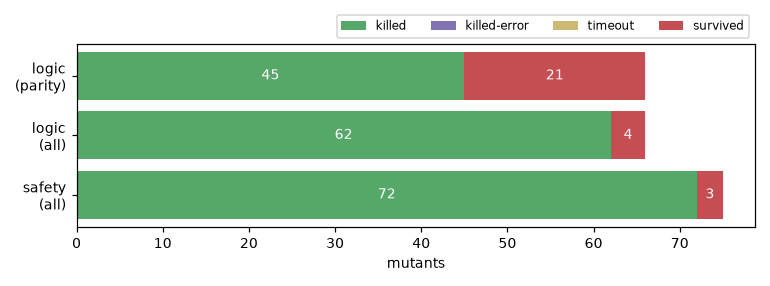
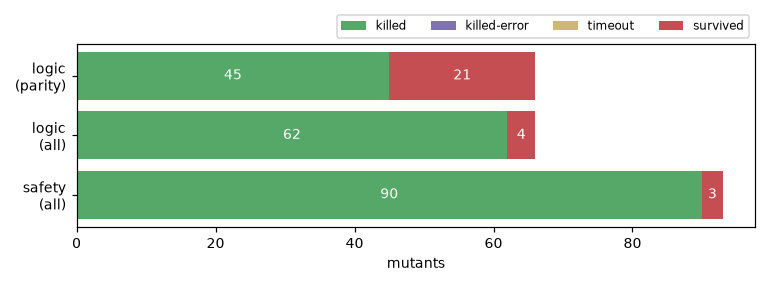
Mutation sweep: refusal, hold, fault and LAND cases
18 new safety mutants (step limit bypassed after a refusal, displacement
skipped after a refusal or during the entry, hold re-captured every tick or
kept across phases, hold from an implausible or untracked pose, LAND
interrupted by a fault, new LAND while refused, escalation timing, status
and counters) and the existing ones updated for the reworked gate. Safety:
90 of 93 killed (3 argued equivalent); logic unchanged at 62 of 66.

diff --git a/tools/mutation_sweep.py b/tools/mutation_sweep.py
@@ -192,8 +192,8 @@ SAFETY = [
      "triggers = [arb[0], op[1], op[2], op[3]]"),
     ("og-issue", SAFE, "joystick issue from operator", "triggers = [op[0], op[1], op[2], op[3]]",
      "triggers = [op[0], op[1], op[2], arb[3]]"),
-    ("og-mode", SAFE, "LAND only in AUTOLAND", "if self.mode is Mode.AUTOLAND and self.status is not GateStatus.CENTRING_FAULT:",
-     "if self.status is not GateStatus.CENTRING_FAULT:"),
+    ("og-mode", SAFE, "LAND only in AUTOLAND", "if self.mode is Mode.AUTOLAND and (self.land_active or self.status is GateStatus.OK):",
+     "if self.land_active or self.status is GateStatus.OK:"),
     ("og-autoland-arm", SAFE, "LAND only while armed", "if arb[1] == 0.0 and op[1] == 1.0 and op[0] == 1.0:",
      "if arb[1] == 0.0 and op[1] == 1.0:"),
     ("og-dryrun", SAFE, "dry-run sends nothing", "return GateDecision(None if self.mode is Mode.DRY_RUN else packet,",
@@ -262,31 +262,77 @@ SAFETY = [
     ("rv-og-arbiter-fault-off", SAFE, "arbiter tampering flagged",
      "if (arb[0], arb[2], arb[3]) != (op[0], op[2], op[3]):", "if False:"),
     # Added with the review fixes
-    ("og-entry-jump", SAFE, "jump on centring entry / re-anchor refused",
+    ("og-entry-jump", SAFE, "jump on centring entry refused",
      "            if ref is not None and math.hypot(x - ref[0], y - ref[1]) > self.max_disp + e:", "            if False:"),
     ("og-origin-refused", SAFE, "refused entry pose is not the origin", "        if accepted:\n", "        if True:\n"),
     ("og-late-origin", SAFE, "first accepted centring pose becomes the origin",
      "        elif self.center_origin is None and reason is None:", "        elif False:"),
-    # Centring entry anchored on the measured pose, re-anchoring, escalation
+    # Centring entry anchor, refusal hold, escalation, autonomous LAND
     ("og-anchor-sent", SAFE, "centring entry anchored on the measured pose, not the last sent one",
      "            ref = self._vehicle_xy(out)\n",
      "            ref = self.last_desired[:2] if self.last_desired is not None else None\n"),
     ("og-anchor-untracked", SAFE, "measured pose used only while tracking",
-     "        if out.is_tracking > 0.5 and len(m) == 2 and _finite(m):", "        if len(m) == 2 and _finite(m):"),
-    ("og-no-reanchor", SAFE, "re-anchor on the measured pose after a refusal",
-     "if not self.prev_centering or self.prev_refused:", "if not self.prev_centering:"),
+     "        if not (out.is_tracking > 0.5 and len(m) == 2 and _finite(m)):", "        if not (len(m) == 2 and _finite(m)):"),
+    ("og-step-reanchor", SAFE, "step limit not bypassed by re-anchoring after a refusal",
+     "        if self.centring_last is None:\n", "        if self.centring_last is None or self.refusal_ticks > 0:\n"),
     ("og-no-escalation", SAFE, "persistent centring refusals escalate",
      "if self.refusal_ticks >= self.escalate_ticks and self.status is not GateStatus.CENTRING_FAULT:", "if False:"),
     ("og-escalation-reset", SAFE, "accepted pose resets the refusal timer",
-     "                self.prev_refused = False\n                self.refusal_ticks = 0\n",
-     "                self.prev_refused = False\n"),
+     "                self.refusal_ticks = 0\n                self.status = GateStatus.OK\n",
+     "                self.status = GateStatus.OK\n"),
+    ("og-escalate-10x", SAFE, "escalation after 2 s", "s.centring_refusal_escalate_s / m.step_size",
+     "10 * s.centring_refusal_escalate_s / m.step_size"),
     ("og-fault-latch", SAFE, "centring fault latched until centring ends",
      '            reason = reason or "centring-fault-hold"', "            pass"),
-    ("og-fault-no-land", SAFE, "no autonomous LAND after a centring fault",
-     "if self.mode is Mode.AUTOLAND and self.status is not GateStatus.CENTRING_FAULT:",
-     "if self.mode is Mode.AUTOLAND:"),
-    ("og-hold-stale", SAFE, "refusal holds where the vehicle is", "                    desired = self.refusal_hold\n",
-     "                    pass\n"),
+    ("og-fault-never-clears", SAFE, "centring fault cleared when centring ends",
+     "            self.refusal_ticks = 0\n            self.status = GateStatus.OK\n", "            self.refusal_ticks = 0\n"),
+    ("og-refused-status-not-reset", SAFE, "accepted pose returns the status to ok",
+     "                self.refusal_ticks = 0\n                self.status = GateStatus.OK\n",
+     "                self.refusal_ticks = 0\n"),
+    ("og-refusal-count", SAFE, "refused centring ticks counted", "                self.centring_refusals += 1\n", ""),
+    ("og-land-interrupted", SAFE, "a LAND already applied is never interrupted (trigger 2 stays lowered)",
+     "(self.land_active or self.status is GateStatus.OK)", "(self.status is not GateStatus.CENTRING_FAULT)"),
+    ("og-new-land-while-refused", SAFE, "no new autonomous LAND unless the gate status is ok",
+     "(self.land_active or self.status is GateStatus.OK)",
+     "(self.land_active or self.status is not GateStatus.CENTRING_FAULT)"),
+    ("og-land-active-latch", SAFE, "LAND state follows the arbiter", "        self.land_active = autoland\n",
+     "        self.land_active = self.land_active or autoland\n"),
+    ("og-hold-stale", SAFE, "refusal holds the validated hold, not the last accepted pose",
+     "                if hold is not None:\n                    desired = hold\n", "                pass\n"),
+    ("og-hold-recapture", SAFE, "entry hold captured once",
+     "        if self.refusal_hold is None:\n            xy = self._measured_xy(out)",
+     "        if True:\n            xy = self._measured_xy(out)"),
+    ("og-hold-kept-across-phases", SAFE, "entry hold cleared when centring ends",
+     "            self.refusal_hold = None\n            self.refusal_ticks = 0\n", "            self.refusal_ticks = 0\n"),
+    ("og-hold-z-measured", SAFE, "hold keeps the last accepted height",
+     "            if self.last_desired is not None:\n                z, yaw = self.last_desired[2], self.last_desired[3]",
+     "            if self.last_desired is not None:\n                z, yaw = float(out.measured_pose[2]), self.last_desired[3]"),
+    ("og-hold-teleport", SAFE, "measured xy further than 0.1 m from the previous sample is not trusted",
+     "                x - self.last_measured[0], y - self.last_measured[1]) > self.measured_jump + e:",
+     "                x - self.last_measured[0], y - self.last_measured[1]) > 100 * self.measured_jump + e:"),
+    ("og-hold-outside-area", SAFE, "measured xy outside the flight area is not trusted",
+     "        if not (self.fx_lo - e <= x <= self.fx_hi + e and self.fy_lo - e <= y <= self.fy_hi + e):",
+     "        if False:"),
+    ("og-vehicle-no-fallback", SAFE, "vehicle position falls back to the last accepted pose",
+     "        if self.last_desired is not None:\n            return self.last_desired[0], self.last_desired[1]\n        return None",
+     "        return None"),
+    ("og-entry-tol-4x", SAFE, "entry jump limit 0.5 m",
+     "            if ref is not None and math.hypot(x - ref[0], y - ref[1]) > self.max_disp + e:",
+     "            if ref is not None and math.hypot(x - ref[0], y - ref[1]) > 4 * self.max_disp + e:"),
+    ("og-origin-untracked", SAFE, "centring origin never from an untracked pose",
+     "        return self._vehicle_xy(out)\n\n    def _hold_pose",
+     "        m = out.measured_pose\n        return (float(m[0]), float(m[1])) if all(v == v for v in m[:2]) "
+     "else self._vehicle_xy(out)\n\n    def _hold_pose"),
+    ("og-disp-after-refusal", SAFE, "displacement limit also on the tick after a refusal",
+     '        if self.center_origin is not None and math.hypot(\n                x - self.center_origin[0], y - self.center_origin[1]) > self.max_disp + e:\n            return "centering-displacement',
+     '        if self.refusal_ticks == 0 and self.center_origin is not None and math.hypot(\n                x - self.center_origin[0], y - self.center_origin[1]) > self.max_disp + e:\n            return "centering-displacement'),
+    ("og-disp-during-entry", SAFE, "displacement limit also while the entry is refused",
+     '        if self.center_origin is not None and math.hypot(\n                x - self.center_origin[0], y - self.center_origin[1]) > self.max_disp + e:\n            return "centering-displacement',
+     '        if self.centring_last is not None and self.center_origin is not None and math.hypot(\n                x - self.center_origin[0], y - self.center_origin[1]) > self.max_disp + e:\n            return "centering-displacement'),
+    ("og-disp-off", SAFE, "displacement limit", '        if self.center_origin is not None and math.hypot(\n                x - self.center_origin[0], y - self.center_origin[1]) > self.max_disp + e:\n            return "centering-displacement',
+     '        if False and math.hypot(\n                x - self.center_origin[0], y - self.center_origin[1]) > self.max_disp + e:\n            return "centering-displacement'),
+    ("sv-refusals-stale", SERVE, "refusal counter copied to ServeStats",
+     "        self.stats.centring_refusals = gate.centring_refusals\n", ""),
     ("sv-gate-status-hidden", SERVE, "gate status exposed in ServeStats",
      "        self._gate_status(rec.decision.status.value)\n", "        pass\n"),
     ("sv-input-failstop", SERVE, "input exceptions fail-stop",
